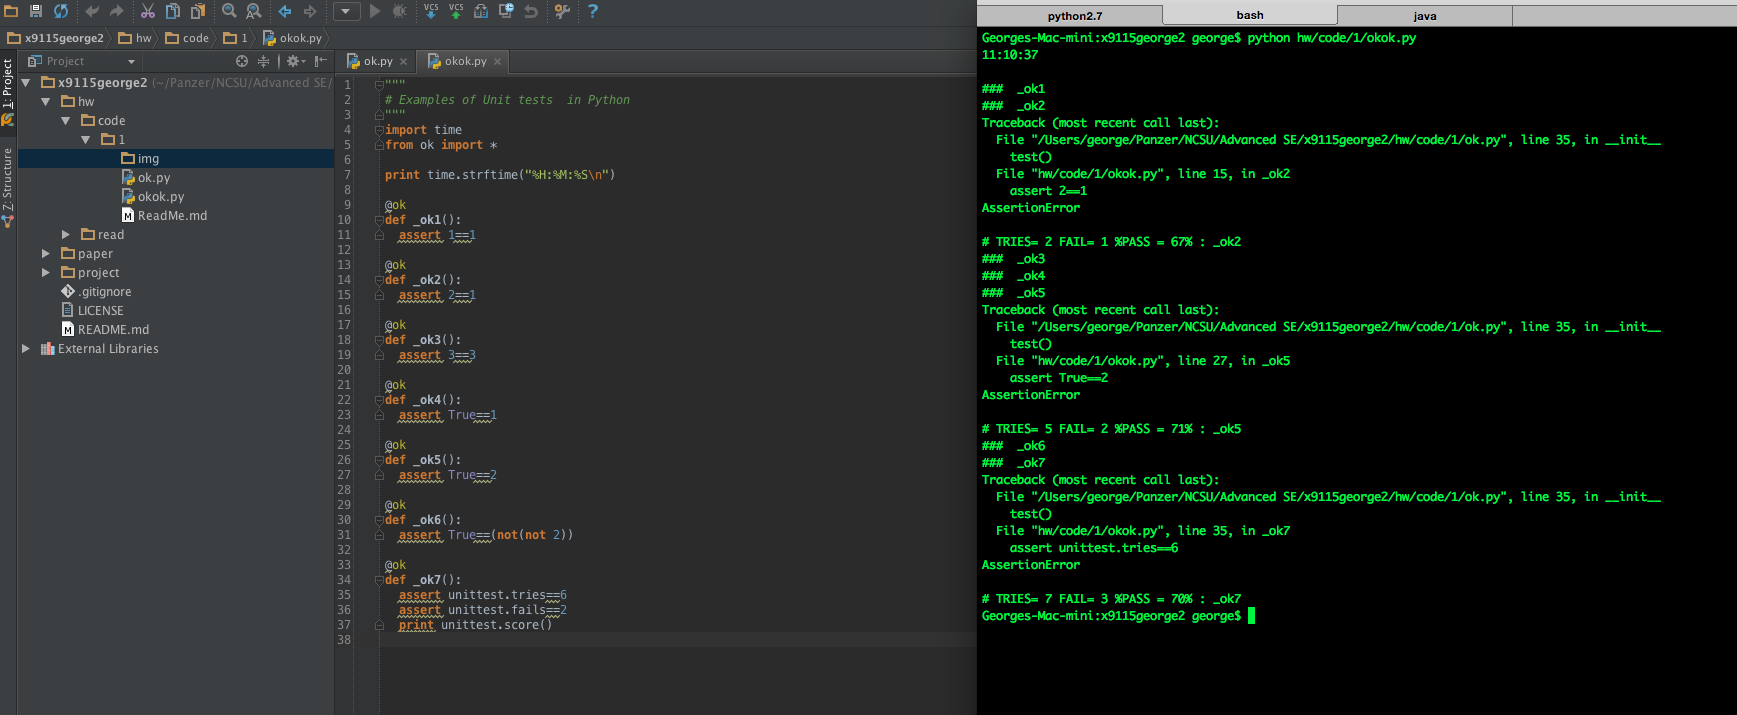
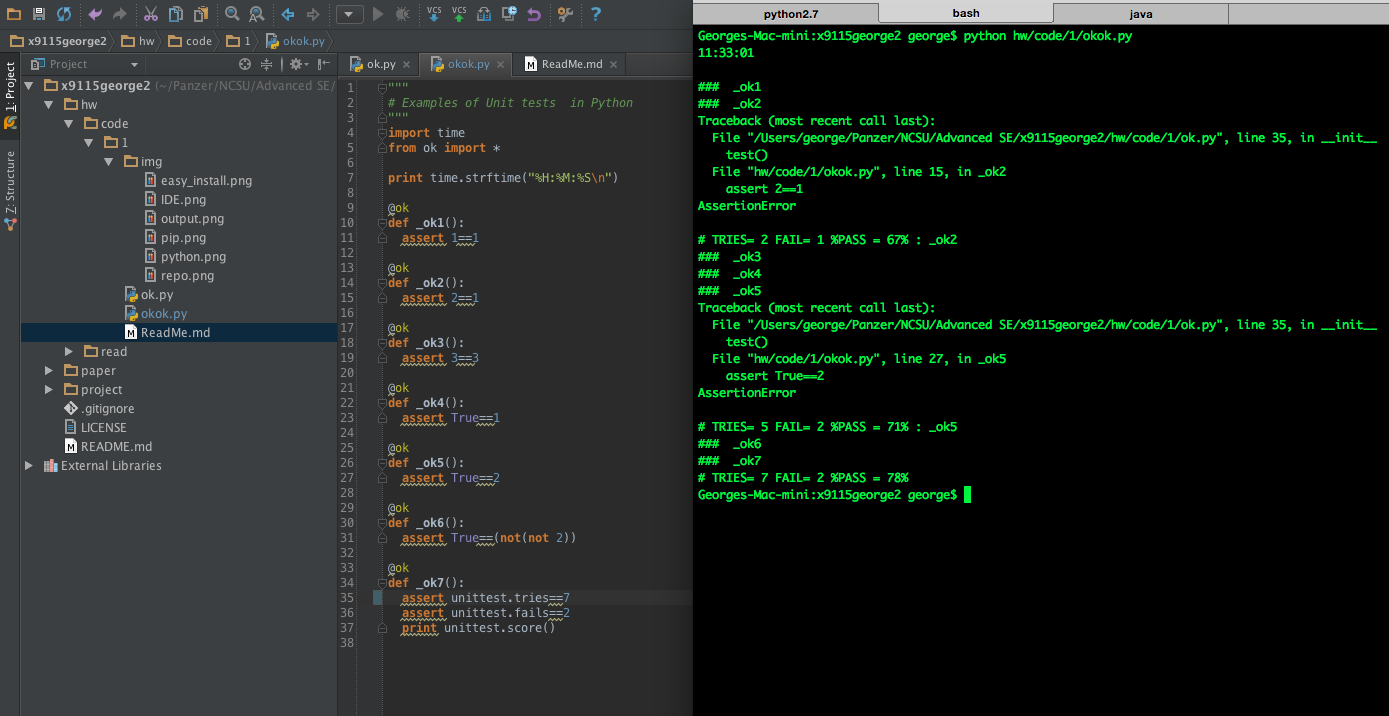
Code change for HW 1

Changed region(s): [[0.4953, 0.0, 1.0, 1.0], [0.0, 0.0, 0.4644, 0.8923]]

diff --git a/hw/code/1/okok.py b/hw/code/1/okok.py
@@ -32,6 +32,6 @@ def _ok6():
 
 @ok
 def _ok7():
-  assert unittest.tries==6
+  assert unittest.tries==7
   assert unittest.fails==2
   print unittest.score()
